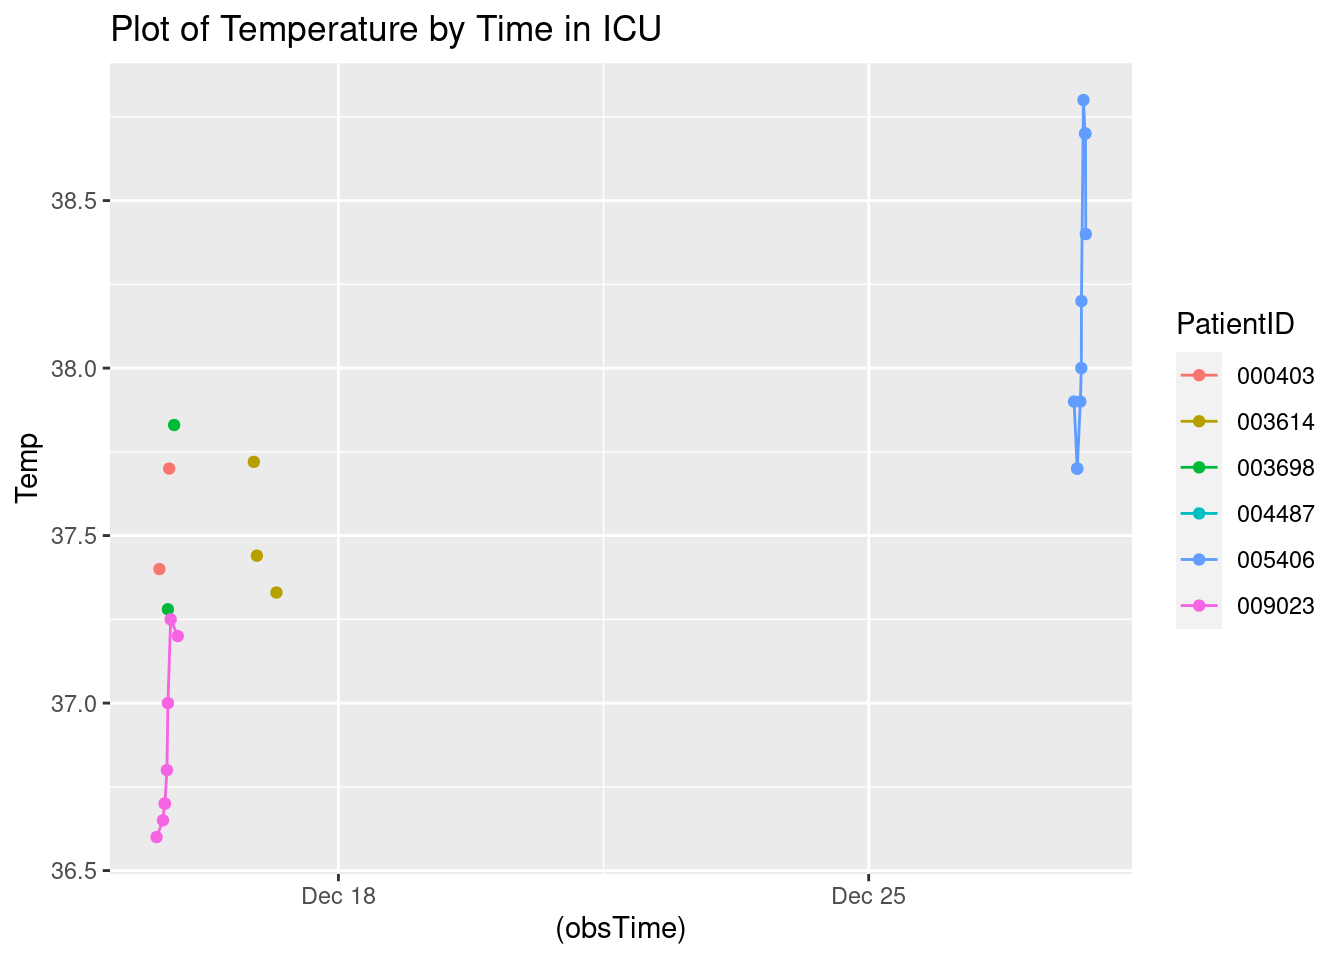
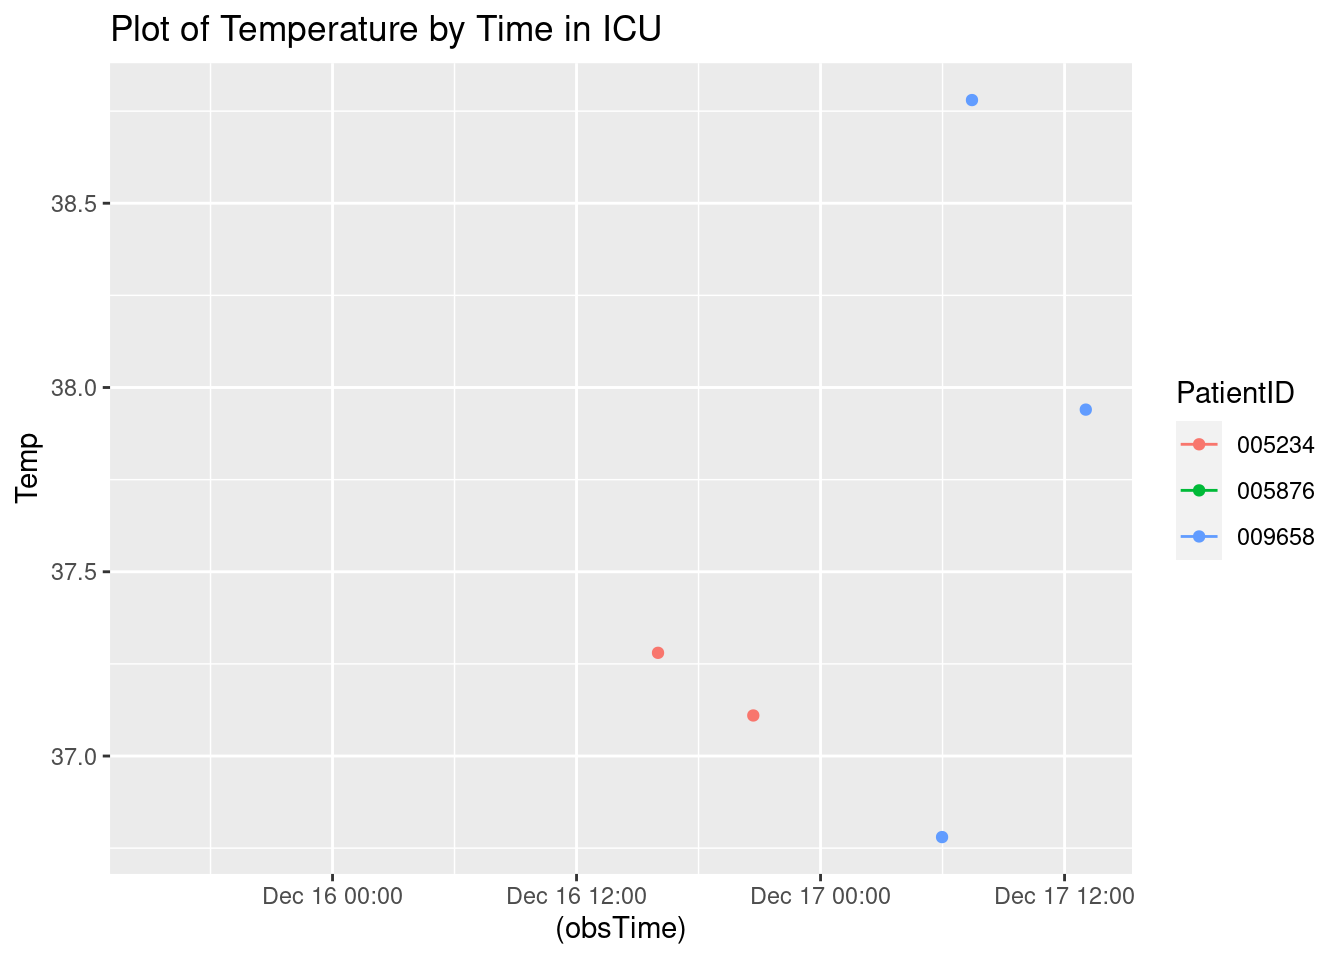
Updated report

diff --git a/A7.html b/A7.html
@@ -114,7 +114,7 @@ pre > code.sourceCode > span > a:first-child::before { text-decoration: underlin
 </div>
 <div class="sourceCode cell-code" id="cb4"><pre class="sourceCode r code-with-copy"><code class="sourceCode r"><span id="cb4-1"><a href="#cb4-1" aria-hidden="true" tabindex="-1"></a><span class="fu">toc</span>()</span></code><button title="Copy to Clipboard" class="code-copy-button"><i class="bi"></i></button></pre></div>
 <div class="cell-output cell-output-stdout">
-<pre><code>6.391 sec elapsed</code></pre>
+<pre><code>3.971 sec elapsed</code></pre>
 </div>
 <div class="sourceCode cell-code" id="cb6"><pre class="sourceCode r code-with-copy"><code class="sourceCode r"><span id="cb6-1"><a href="#cb6-1" aria-hidden="true" tabindex="-1"></a><span class="fu">tic</span>()</span>
 <span id="cb6-2"><a href="#cb6-2" aria-hidden="true" tabindex="-1"></a>test1<span class="ot">=</span><span class="fu">makeSepsisDataset</span>(<span class="at">n=</span><span class="dv">50</span>,<span class="at">read_fn =</span> <span class="st">"read_delim"</span>)</span>
@@ -124,7 +124,7 @@ pre > code.sourceCode > span > a:first-child::before { text-decoration: underlin
 </div>
 <div class="sourceCode cell-code" id="cb8"><pre class="sourceCode r code-with-copy"><code class="sourceCode r"><span id="cb8-1"><a href="#cb8-1" aria-hidden="true" tabindex="-1"></a><span class="fu">toc</span>()</span></code><button title="Copy to Clipboard" class="code-copy-button"><i class="bi"></i></button></pre></div>
 <div class="cell-output cell-output-stdout">
-<pre><code>22.505 sec elapsed</code></pre>
+<pre><code>14.824 sec elapsed</code></pre>
 </div>
 <div class="sourceCode cell-code" id="cb10"><pre class="sourceCode r code-with-copy"><code class="sourceCode r"><span id="cb10-1"><a href="#cb10-1" aria-hidden="true" tabindex="-1"></a><span class="co"># n=100</span></span>
 <span id="cb10-2"><a href="#cb10-2" aria-hidden="true" tabindex="-1"></a><span class="fu">tic</span>()</span>
@@ -135,7 +135,7 @@ pre > code.sourceCode > span > a:first-child::before { text-decoration: underlin
 </div>
 <div class="sourceCode cell-code" id="cb12"><pre class="sourceCode r code-with-copy"><code class="sourceCode r"><span id="cb12-1"><a href="#cb12-1" aria-hidden="true" tabindex="-1"></a><span class="fu">toc</span>()</span></code><button title="Copy to Clipboard" class="code-copy-button"><i class="bi"></i></button></pre></div>
 <div class="cell-output cell-output-stdout">
-<pre><code>12.021 sec elapsed</code></pre>
+<pre><code>6.027 sec elapsed</code></pre>
 </div>
 <div class="sourceCode cell-code" id="cb14"><pre class="sourceCode r code-with-copy"><code class="sourceCode r"><span id="cb14-1"><a href="#cb14-1" aria-hidden="true" tabindex="-1"></a><span class="fu">tic</span>()</span>
 <span id="cb14-2"><a href="#cb14-2" aria-hidden="true" tabindex="-1"></a>test1<span class="ot">=</span><span class="fu">makeSepsisDataset</span>(<span class="at">n=</span><span class="dv">100</span>,<span class="at">read_fn =</span> <span class="st">"read_delim"</span>)</span>
@@ -145,7 +145,7 @@ pre > code.sourceCode > span > a:first-child::before { text-decoration: underlin
 </div>
 <div class="sourceCode cell-code" id="cb16"><pre class="sourceCode r code-with-copy"><code class="sourceCode r"><span id="cb16-1"><a href="#cb16-1" aria-hidden="true" tabindex="-1"></a><span class="fu">toc</span>()</span></code><button title="Copy to Clipboard" class="code-copy-button"><i class="bi"></i></button></pre></div>
 <div class="cell-output cell-output-stdout">
-<pre><code>44.339 sec elapsed</code></pre>
+<pre><code>21.652 sec elapsed</code></pre>
 </div>
 <div class="sourceCode cell-code" id="cb18"><pre class="sourceCode r code-with-copy"><code class="sourceCode r"><span id="cb18-1"><a href="#cb18-1" aria-hidden="true" tabindex="-1"></a><span class="co"># n=500</span></span>
 <span id="cb18-2"><a href="#cb18-2" aria-hidden="true" tabindex="-1"></a><span class="fu">tic</span>()</span>
@@ -156,7 +156,7 @@ pre > code.sourceCode > span > a:first-child::before { text-decoration: underlin
 </div>
 <div class="sourceCode cell-code" id="cb20"><pre class="sourceCode r code-with-copy"><code class="sourceCode r"><span id="cb20-1"><a href="#cb20-1" aria-hidden="true" tabindex="-1"></a><span class="fu">toc</span>()</span></code><button title="Copy to Clipboard" class="code-copy-button"><i class="bi"></i></button></pre></div>
 <div class="cell-output cell-output-stdout">
-<pre><code>58.132 sec elapsed</code></pre>
+<pre><code>30.531 sec elapsed</code></pre>
 </div>
 <div class="sourceCode cell-code" id="cb22"><pre class="sourceCode r code-with-copy"><code class="sourceCode r"><span id="cb22-1"><a href="#cb22-1" aria-hidden="true" tabindex="-1"></a><span class="fu">tic</span>()</span>
 <span id="cb22-2"><a href="#cb22-2" aria-hidden="true" tabindex="-1"></a>test1<span class="ot">=</span><span class="fu">makeSepsisDataset</span>(<span class="at">n=</span><span class="dv">500</span>,<span class="at">read_fn =</span> <span class="st">"read_delim"</span>)</span>
@@ -166,7 +166,7 @@ pre > code.sourceCode > span > a:first-child::before { text-decoration: underlin
 </div>
 <div class="sourceCode cell-code" id="cb24"><pre class="sourceCode r code-with-copy"><code class="sourceCode r"><span id="cb24-1"><a href="#cb24-1" aria-hidden="true" tabindex="-1"></a><span class="fu">toc</span>()</span></code><button title="Copy to Clipboard" class="code-copy-button"><i class="bi"></i></button></pre></div>
 <div class="cell-output cell-output-stdout">
-<pre><code>222.357 sec elapsed</code></pre>
+<pre><code>106.861 sec elapsed</code></pre>
 </div>
 </div>
 <p><strong>Task 3</strong></p>
@@ -192,7 +192,7 @@ pre > code.sourceCode > span > a:first-child::before { text-decoration: underlin
 <span id="cb28-4"><a href="#cb28-4" aria-hidden="true" tabindex="-1"></a></span>
 <span id="cb28-5"><a href="#cb28-5" aria-hidden="true" tabindex="-1"></a><span class="fu">Sys.time</span>()</span></code><button title="Copy to Clipboard" class="code-copy-button"><i class="bi"></i></button></pre></div>
 <div class="cell-output cell-output-stdout">
-<pre><code>[1] "2023-12-15 14:22:30 UTC"</code></pre>
+<pre><code>[1] "2023-12-15 15:20:41 UTC"</code></pre>
 </div>
 <div class="sourceCode cell-code" id="cb30"><pre class="sourceCode r code-with-copy"><code class="sourceCode r"><span id="cb30-1"><a href="#cb30-1" aria-hidden="true" tabindex="-1"></a>dfnew <span class="ot">&lt;-</span> df <span class="sc">%&gt;%</span></span>
 <span id="cb30-2"><a href="#cb30-2" aria-hidden="true" tabindex="-1"></a>  <span class="fu">subset</span>(SepsisLabel<span class="sc">==</span><span class="dv">1</span>)</span>
@@ -221,58 +221,31 @@ pre > code.sourceCode > span > a:first-child::before { text-decoration: underlin
 </thead>
 <tbody>
 <tr class="odd">
-<td style="text-align: left;">000403</td>
+<td style="text-align: left;">005234</td>
+<td style="text-align: right;">34</td>
+<td style="text-align: right;">91</td>
+<td style="text-align: right;">NA</td>
+<td style="text-align: right;">18</td>
+<td style="text-align: right;">1</td>
+<td style="text-align: left;">2023-12-16 21:34:37</td>
+</tr>
+<tr class="even">
+<td style="text-align: left;">005876</td>
 <td style="text-align: right;">6</td>
-<td style="text-align: right;">105</td>
-<td style="text-align: right;">37.7</td>
-<td style="text-align: right;">7</td>
-<td style="text-align: right;">1</td>
-<td style="text-align: left;">2023-12-15 18:23:11</td>
-</tr>
-<tr class="even">
-<td style="text-align: left;">003614</td>
-<td style="text-align: right;">40</td>
-<td style="text-align: right;">84</td>
-<td style="text-align: right;">NA</td>
-<td style="text-align: right;">18</td>
-<td style="text-align: right;">1</td>
-<td style="text-align: left;">2023-12-17 05:06:08</td>
-</tr>
-<tr class="odd">
-<td style="text-align: left;">003698</td>
-<td style="text-align: right;">11</td>
-<td style="text-align: right;">88</td>
-<td style="text-align: right;">NA</td>
-<td style="text-align: right;">10</td>
-<td style="text-align: right;">1</td>
-<td style="text-align: left;">2023-12-15 23:10:48</td>
-</tr>
-<tr class="even">
-<td style="text-align: left;">004487</td>
-<td style="text-align: right;">51</td>
-<td style="text-align: right;">104</td>
-<td style="text-align: right;">NA</td>
-<td style="text-align: right;">11</td>
-<td style="text-align: right;">1</td>
-<td style="text-align: left;">2023-12-17 16:46:04</td>
-</tr>
-<tr class="odd">
-<td style="text-align: left;">005406</td>
-<td style="text-align: right;">295</td>
 <td style="text-align: right;">76</td>
-<td style="text-align: right;">38.4</td>
-<td style="text-align: right;">17</td>
+<td style="text-align: right;">NA</td>
+<td style="text-align: right;">21</td>
 <td style="text-align: right;">1</td>
-<td style="text-align: left;">2023-12-27 20:46:20</td>
+<td style="text-align: left;">2023-12-15 20:20:39</td>
 </tr>
-<tr class="even">
-<td style="text-align: left;">009023</td>
-<td style="text-align: right;">7</td>
-<td style="text-align: right;">105</td>
-<td style="text-align: right;">37.2</td>
-<td style="text-align: right;">18</td>
+<tr class="odd">
+<td style="text-align: left;">009658</td>
+<td style="text-align: right;">48</td>
+<td style="text-align: right;">97</td>
+<td style="text-align: right;">37.94</td>
+<td style="text-align: right;">32</td>
 <td style="text-align: right;">1</td>
-<td style="text-align: left;">2023-12-15 21:06:05</td>
+<td style="text-align: left;">2023-12-17 13:02:38</td>
 </tr>
 </tbody>
 </table>
